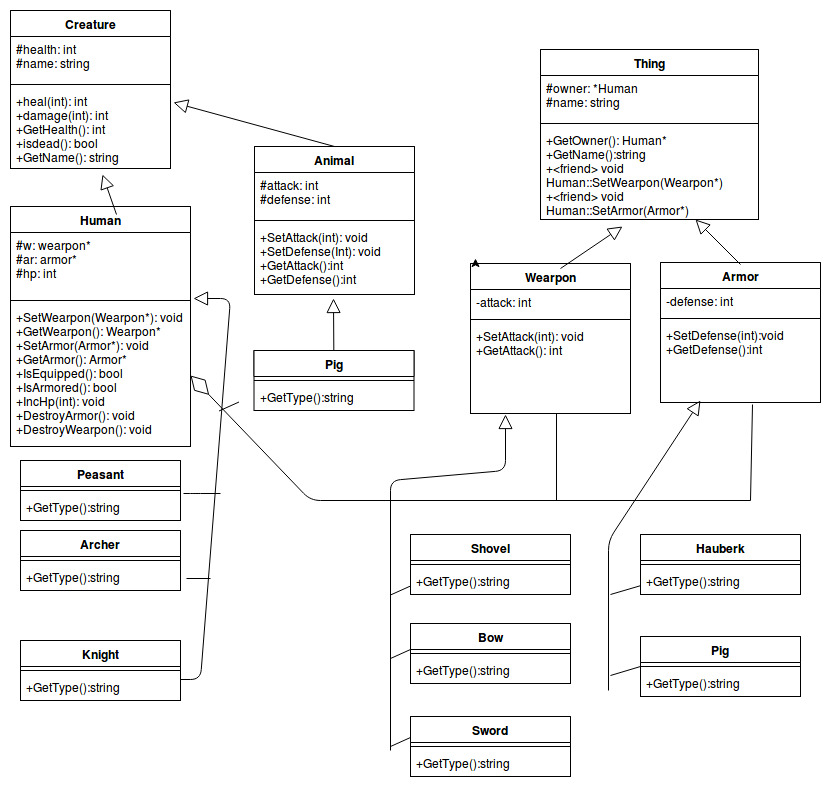
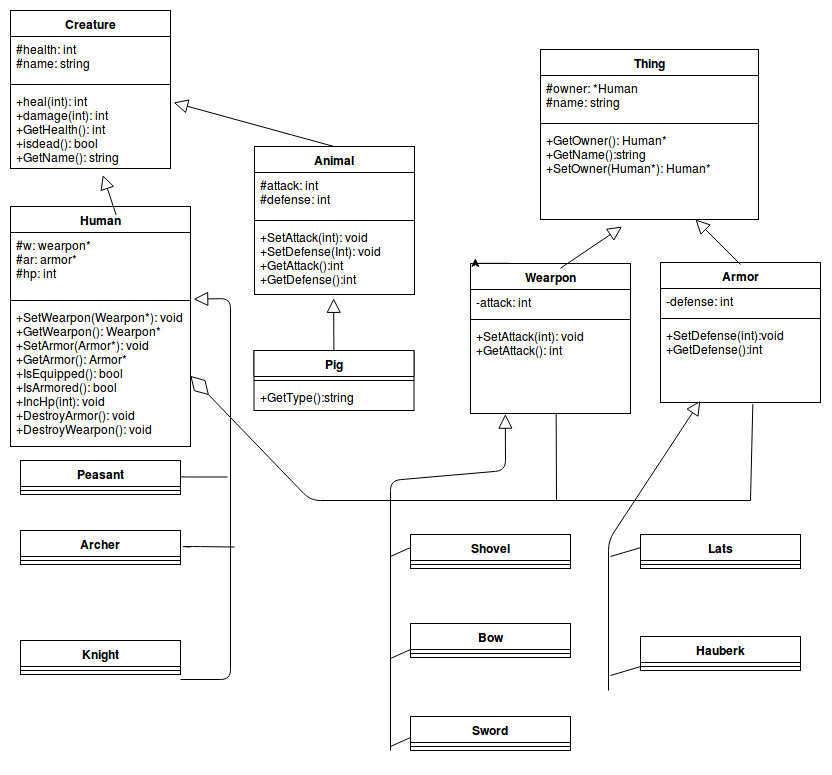
Add files via upload

diff --git a/homework/Sidorenko/03/game2.h b/homework/Sidorenko/03/game2.h
@@ -8,48 +8,44 @@ protected:
 	Human *owner; //nullptr means thing does not belong to anybody
 	std::string name; 
 public:	
-	thing(std::string& _name);
+	Thing(const std::string& _name);
 	Human* GetOwner();
-	friend void Human::SetWearpon(Wearpon *w);
-	friend void Human::SetArmor(Armor *ar);
+	void SetOwner(const Human *h);
 	std::string& GetName();
 };
 
-class Wearpon: public Thing
+class Weapon: public Thing
 {
 	int attack;
 public:
-	Wearpon(std::string& _name, int _attack);
+	Weapon(const std::string& _name, int _attack);
 	int GetAttack();
 	void SetAttack(int _a);
 };
 
-class Shovel: public Wearpon
+class Shovel: public Weapon
 {
 public:
-	Shovel(std::string& _name, int _attack);
-	std::string& GetType(); //выдаёт тип оружия (здесь: Shovel)
+	Shovel(const std::string& _name, int _attack);
 };
 
-class Bow: public Wearpon
+class Bow: public Weapon
 {
 public:
-	Bow(std::string& _name, int _attack);
-	std::string& GetType();
+	Bow(const std::string& _name, int _attack);
 };
 
-class Sword: public Wearpon
+class Sword: public Weapon
 {
 public:
-	Sword(std::string& _name, int _attack);
-	std::string& GetType();
+	Sword(const std::string& _name, int _attack);
 };
 
 class Armor: public Thing
 {
 	int defense;
 public:
-	Wearpon(std::string& _name, int _def);
+	Armor(const std::string& _name, int _def);
 	int GetDefense();
 	void SetDefense(int _d);
 };
@@ -57,15 +53,13 @@ public:
 class Hauberk: public Armor
 {
 public:
-	Hauberk(std::string& _name, int _def);
-	std::string& GetType(); //выдаёт тип брони (здесь Hauberk)
+	Hauberk(const std::string& _name, int _def);
 };
 
 class Lats: public Armor
 {
 public:
-	Lats(std::string& _name, int _def);
-	std::string& GetType();
+	Lats(const std::string& _name, int _def);
 };
 
 //описание класса живого создания: человека или животного
@@ -75,7 +69,7 @@ protected:
 	int health;
 	std::string name;
 public:
-	Creature(std::string _name, int _health);
+	Creature(const std::string _name, int _health);
 	void heal(int _h);
 	void damage(int _d);
 	bool IsDead();
@@ -86,40 +80,39 @@ public:
 class Human: public Creature
 {
 protected:
-	Wearpon *w; //w == nullptr - нет оружия
+	Weapon *w; //w == nullptr - нет оружия
 	Armor *ar; //ar == nullptr - нет брони
 	int hp;
 public:
 	//create a man without anything
-	Human(std::string name, int _health); 
-	void SetWearpon(Wearpon *w);
+	Human(const std::string name, int _health); 
+	void SetWeapon(Weapon *w);
 	void SetArmor(Armor *ar);
-	Wearpon* GetWearpon();
+	Weapon* GetWeapon();
 	Armor* GetArmor();
 	bool IsEquipped(); 
 	bool IsArmored();
 	void IncHp(int _gift);
-	void DestroyArmor(); //destruct the structure of wearpon 
-	void DestroyWearpon();
+	void DestroyArmor(); //destruct the structure of weapon 
+	void DestroyWeapon();
 };
 
 class Peasant: public Human
 {
 public:
-	Peasant(std::string _name, int _health);
-	std::string& GetType(); //выдаёт сословие (здесь: Peasant)
+	Peasant(const std::string _name, int _health);
 };	
+
 class Archer: public Human
 {
 public:
-	Archer(std::string _name, int _health);
-	std::string& GetType();
+	Archer(const std::string _name, int _health);
 };	
+
 class Knight: public Human
 {
 public:
-	Knight(std::string _name, int _health);
-	std::string& GetType();
+	Knight(const std::string _name, int _health);
 };	
 
 class Animal
@@ -127,7 +120,7 @@ class Animal
 protected:
 	int attack, defense;
 public:
-	Animal(std::string& _name, int health, int _a, int _d);
+	Animal(const std::string& _name, int health, int _a, int _d);
 	int GetAttack();
 	int GetDefense();
 	void SetAttack(int _a);
@@ -137,9 +130,8 @@ public:
 class Pig: public Animal
 {
 public:
-	Pig(std::string& _name, int health, int _a, int _d);
-	std::string& GetType();
-}
+	Pig(const std::string& _name, int health, int _a, int _d);
+};
 	
 
 

diff --git a/homework/Sidorenko/03/readme.md b/homework/Sidorenko/03/readme.md
@@ -1,0 +1,3 @@
+Weapon mistake has been corrected.
+Thing constructor name has been corrected.
+Some useless functions have been expelled.
